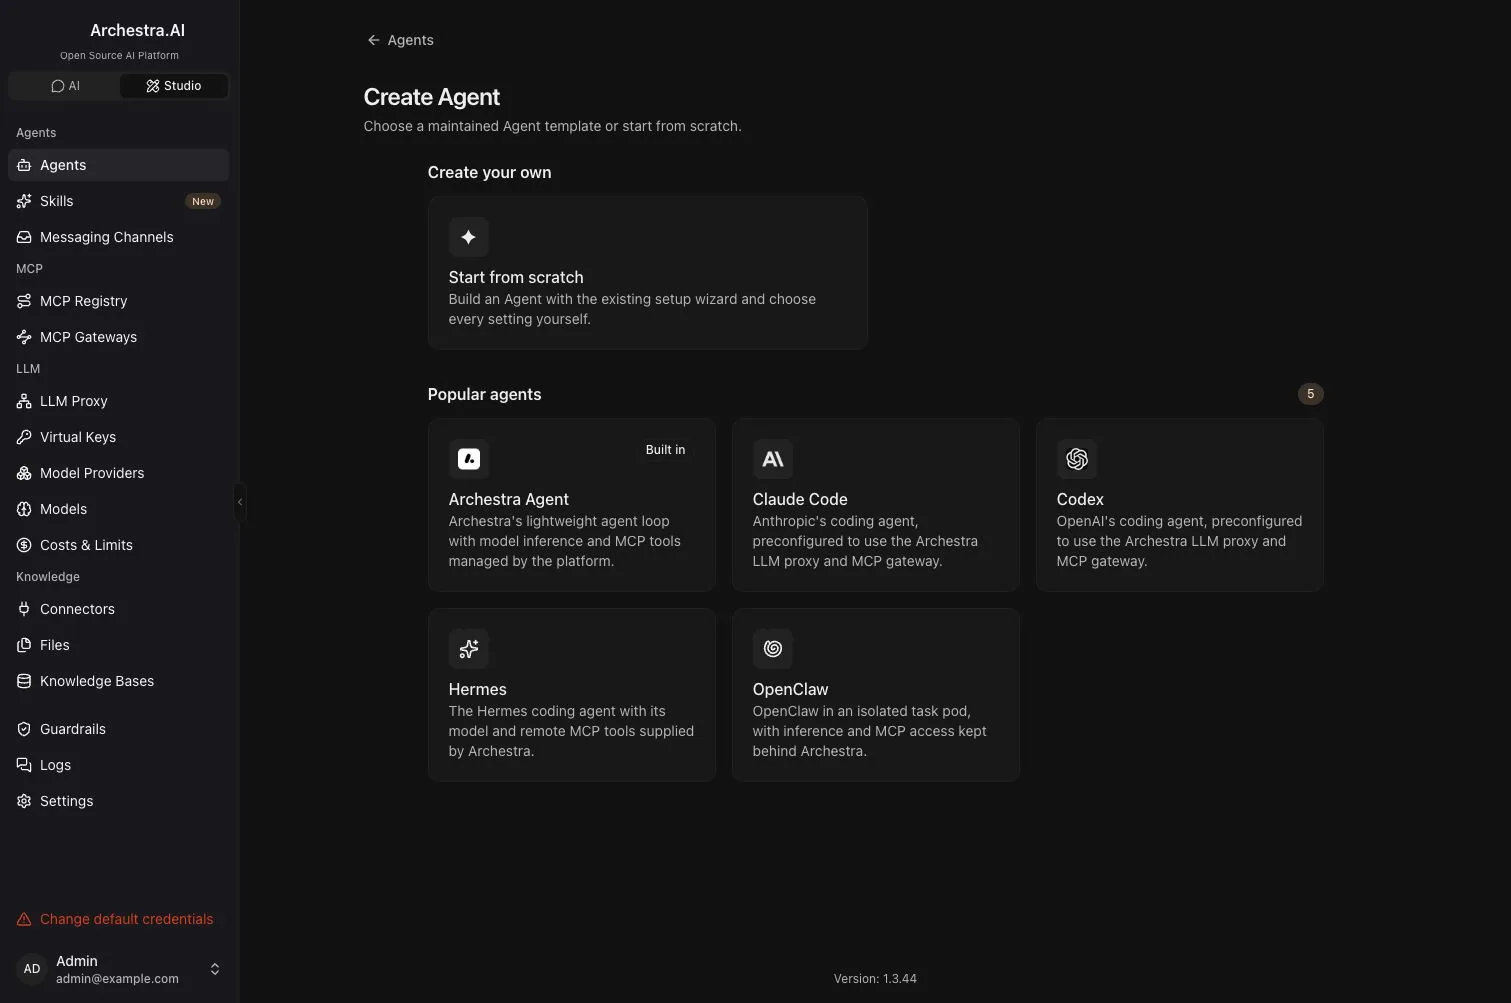
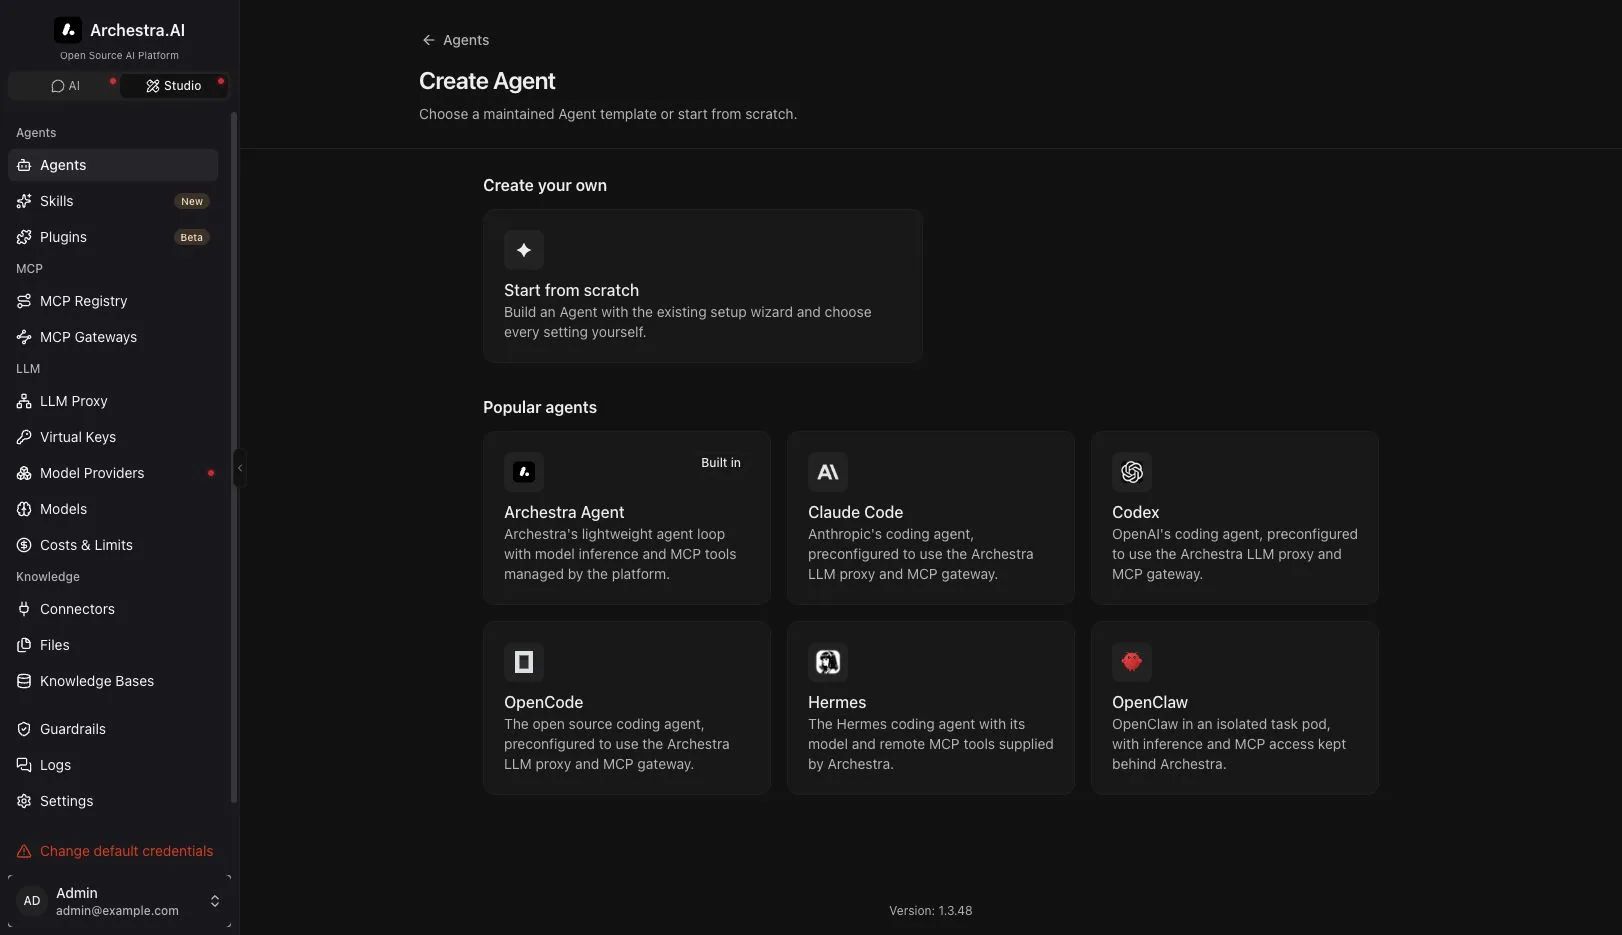
feat(agent): add OpenCode background execution (#7646)
## Summary

Adds OpenCode as a maintained background runtime so users can select it
from the Create Agent catalog instead of assembling a custom image and
client configuration.

- Adds an `agent-opencode` image and `archestra-opencode` wrapper for
OpenAI Responses, authenticated MCP access, one-shot runs, the
interactive TUI, and terminal steering.
- Supplies effective model context and output limits to native runtimes
so OpenCode can advertise the selected model correctly.
- Adds the official OpenCode mark, local Tilt and release image builds,
behavior tests, and updated background-execution documentation.

The image pins OpenCode 1.18.23, which is past the repository
release-age window. Its installer is invoked explicitly during the image
build because lifecycle scripts are disabled repository-wide.

## Validation

Created an OpenCode Agent through the local catalog and ran the built
`agent-opencode:dev` image as a real interactive Kubernetes execution
with GPT-5.6 Sol. OpenCode 1.18.23 connected through the Responses
proxy, round-tripped `OPENCODE_OK` through its shell, invoked
`archestra__whoami` through the authenticated MCP gateway and returned
`MCP_OK`, then accepted a follow-up through terminal steering and
returned `STEERING_OK`. No runner resources remained after the execution
stopped.

Entry-point behavior tests cover both one-shot and interactive launch
modes, including generated provider/MCP configuration and protocol
rejection.

---
[…]

diff --git a/platform/backend/src/services/runners/opencode-entrypoint.test.ts b/platform/backend/src/services/runners/opencode-entrypoint.test.ts
@@ -1,0 +1,144 @@
+import { execFile } from "node:child_process";
+import {
+  chmod,
+  mkdir,
+  mkdtemp,
+  readFile,
+  rm,
+  writeFile,
+} from "node:fs/promises";
+import { tmpdir } from "node:os";
+import path from "node:path";
+import { promisify } from "node:util";
+import { describe, expect, test } from "vitest";
+
+const execFileAsync = promisify(execFile);
+const ENTRYPOINT = path.resolve(
+  import.meta.dirname,
+  "../../../../agent_images/bin/archestra-opencode",
+);
+
+describe("OpenCode image entrypoint", () => {
+  test.each([
+    ["one_shot", ["run", "--pure", "--auto"]],
+    ["interactive", ["--pure", "--auto"]],
+  ] as const)("configures and starts %s execution", async (mode, prefix) => {
+    const root = await mkdtemp(path.join(tmpdir(), "archestra-opencode-"));
+    try {
+      const bin = path.join(root, "bin");
+      const runtime = path.join(root, "runtime");
+      const workspace = path.join(root, "workspace");
+      await Promise.all([
+        mkdir(bin, { recursive: true }),
+        mkdir(workspace, { recursive: true }),
+      ]);
+      await writeExecutable(
+        path.join(bin, "opencode"),
+        `#!/bin/sh
+printf '%s\n' "$@" > "$ARCHESTRA_AGENT_BACKGROUND_EXECUTION_RUNTIME_DIR/captured-args"
+env > "$ARCHESTRA_AGENT_BACKGROUND_EXECUTION_RUNTIME_DIR/captured-env"
+`,
+      );
+
+      await execFileAsync("bash", [ENTRYPOINT], {
+        cwd: workspace,
+        env: {
+          ...process.env,
+          PATH: `${bin}:${process.env.PATH}`,
+          ARCHESTRA_LLM_PROXY_PROTOCOL: "openai_responses",
+          ARCHESTRA_AGENT_BACKGROUND_EXECUTION_RUNTIME_DIR: runtime,
+          ARCHESTRA_AGENT_BACKGROUND_EXECUTION_NATIVE_MODEL: "test-model",
+          ARCHESTRA_AGENT_BACKGROUND_EXECUTION_MODEL_CONTEXT_LENGTH: "200000",
+          ARCHESTRA_AGENT_BACKGROUND_EXECUTION_MODEL_OUTPUT_LENGTH: "32000",
+          ARCHESTRA_AGENT_BACKGROUND_EXECUTION_TASK_ID:
+            "12345678-abcd-4000-8000-123456789abc",
+          ARCHESTRA_AGENT_BACKGROUND_EXECUTION_TASK: "Run the task.",
+          ARCHESTRA_AGENT_BACKGROUND_EXECUTION_SYSTEM_PROMPT:
+            "Follow the configured Agent instructions.",
+          ARCHESTRA_AGENT_BACKGROUND_EXECUTION_MODE: mode,
+          ARCHESTRA_MCP_GATEWAY_URL: "http://localhost:9000/v1/mcp/test",
+          ARCHESTRA_MCP_GATEWAY_TOKEN: "test-token",
+          OPENAI_API_KEY: "test-key",
+          OPENAI_BASE_URL: "http://localhost:9000/v1/model-router/test",
+        },
+      });
+
+      const config = JSON.parse(
+        await readFile(path.join(runtime, "opencode.json"), "utf8"),
+      );
+      expect(config).toMatchObject({
+        model: "archestra/test-model",
+        permission: "allow",
+        provider: {
+          archestra: {
+            npm: "@ai-sdk/openai",
+            options: {
+              baseURL: "http://localhost:9000/v1/model-router/test",
+              apiKey: "{env:OPENAI_API_KEY}",
+              headers: {
+                "X-Archestra-Execution-Id":
+                  "12345678-abcd-4000-8000-123456789abc",
+                "X-Archestra-Session-Id":
+                  "12345678-abcd-4000-8000-123456789abc",
+              },
+            },
+            models: {
+              "test-model": {
+                tool_call: true,
+                limit: { context: 200000, output: 32000 },
+              },
+            },
+          },
+        },
+        mcp: {
+          archestra: {
+            type: "remote",
+            url: "http://localhost:9000/v1/mcp/test",
+            oauth: false,
+            headers: {
+              Authorization: "Bearer test-token",
+              "X-Archestra-Execution-Id":
+                "12345678-abcd-4000-8000-123456789abc",
+              "X-Archestra-Session-Id": "12345678-abcd-4000-8000-123456789abc",
+            },
+          },
+        },
+      });
+      expect(
+        await readFile(path.join(runtime, "opencode-instructions.md"), "utf8"),
+      ).toBe("Follow the configured Agent instructions.\n");
+
+      const args = (await readFile(path.join(runtime, "captured-args"), "utf8"))
+        .trim()
+        .split("\n");
+      expect(args.slice(0, prefix.length)).toEqual(prefix);
+      expect(args).toContain("archestra/test-model");
+      expect(args.at(-1)).toBe("Run the task.");
+
+      const capturedEnv = await readFile(
+        path.join(runtime, "captured-env"),
+        "utf8",
+      );
+      expect(capturedEnv).toContain("OPENCODE_DISABLE_PROJECT_CONFIG=1");
+      expect(capturedEnv).toContain(`OPENCODE_CONFIG=${runtime}/opencode.json`);
+    } finally {
+      await rm(root, { recursive: true, force: true });
+    }
+  });
+
+  test("rejects a non-Responses protocol before starting OpenCode", async () => {
+    await expect(
+      execFileAsync("bash", [ENTRYPOINT], {
+        env: {
+          ...process.env,
+          ARCHESTRA_LLM_PROXY_PROTOCOL: "openai_chat",
+        },
+      }),
+    ).rejects.toMatchObject({ code: 78 });
+  });
+});
+
+async function writeExecutable(file: string, contents: string): Promise<void> {
+  await writeFile(file, contents, "utf8");
+  await chmod(file, 0o755);
+}

diff --git a/platform/backend/src/services/runners/launch-spec.ts b/platform/backend/src/services/runners/launch-spec.ts
@@ -238,6 +238,12 @@ export async function buildRunnerLaunchSpec(params: {
           : null,
       })
     : llm.selectedModel;
+  const modelContextLength = selectedModel
+    ? ModelModel.resolveEffectiveContextLength(selectedModel)
+    : null;
+  const modelOutputLength = selectedModel
+    ? ModelModel.resolveEffectiveOutputLength(selectedModel)
+    : null;
   const nonSecretEnv: Record<string, string> = {
     // The runner's own environment goes first: the addresses below must win.
     // An entry overriding ANTHROPIC_BASE_URL would be exactly the bypass the
@@ -257,6 +263,18 @@ export async function buildRunnerLaunchSpec(params: {
     // qualified model id above.
     ARCHESTRA_AGENT_BACKGROUND_EXECUTION_NATIVE_MODEL: nativeModel,
     ARCHESTRA_AGENT_BACKGROUND_EXECUTION_MODEL_PROVIDER: llm.selectedProvider,
+    ...(modelContextLength
+      ? {
+          ARCHESTRA_AGENT_BACKGROUND_EXECUTION_MODEL_CONTEXT_LENGTH:
+            String(modelContextLength),
+        }
+      : {}),
+    ...(modelOutputLength
+      ? {
+          ARCHESTRA_AGENT_BACKGROUND_EXECUTION_MODEL_OUTPUT_LENGTH:
+            String(modelOutputLength),
+        }
+      : {}),
     ARCHESTRA_AGENT_BACKGROUND_EXECUTION_MODE: params.executionMode,
     ARCHESTRA_AGENT_BACKGROUND_EXECUTION_BANNER: executionBanner(
       params.appName,
@@ -373,6 +391,8 @@ const RESERVED_RUNTIME_ENV_KEYS = new Set([
   "ARCHESTRA_AGENT_BACKGROUND_EXECUTION_BANNER",
   "ARCHESTRA_AGENT_BACKGROUND_EXECUTION_MODE",
   "ARCHESTRA_AGENT_BACKGROUND_EXECUTION_MODEL",
+  "ARCHESTRA_AGENT_BACKGROUND_EXECUTION_MODEL_CONTEXT_LENGTH",
+  "ARCHESTRA_AGENT_BACKGROUND_EXECUTION_MODEL_OUTPUT_LENGTH",
   "ARCHESTRA_AGENT_BACKGROUND_EXECUTION_MODEL_PROVIDER",
   "ARCHESTRA_AGENT_BACKGROUND_EXECUTION_NATIVE_MODEL",
   "ARCHESTRA_AGENT_BACKGROUND_EXECUTION_STEER_FIFO",

diff --git a/platform/frontend/src/components/agent-pages/agent-catalog.tsx b/platform/frontend/src/components/agent-pages/agent-catalog.tsx
@@ -14,7 +14,13 @@ import {
 } from "@/lib/hooks/use-app-name";
 
 export interface AgentCatalogTemplate {
-  id: "archestra" | "claude-code" | "codex" | "hermes" | "openclaw";
+  id:
+    | "archestra"
+    | "claude-code"
+    | "codex"
+    | "opencode"
+    | "hermes"
+    | "openclaw";
   name: string;
   description: string;
   icon: string | null;
@@ -72,6 +78,17 @@ export function getAgentCatalogTemplates(
       inferenceProtocol: "openai_responses",
       steerMode: "tmux_keys",
       requiredSubscriptionKind: "chatgpt",
+    }),
+    template({
+      id: "opencode",
+      name: "OpenCode",
+      icon: "/agent-logos/opencode.svg",
+      description: `The open source coding agent, preconfigured to use the ${appName} LLM proxy and MCP gateway.`,
+      platformName: appName,
+      image: image(archestraImage, "opencode"),
+      command: ["archestra-opencode"],
+      inferenceProtocol: "openai_responses",
+      steerMode: "tmux_keys",
     }),
     template({
       id: "hermes",
@@ -185,6 +202,16 @@ function CatalogAgentIcon({
       return <ProviderIcon provider="anthropic" size={22} />;
     case "codex":
       return <ProviderIcon provider="openai" size={22} />;
+    case "opencode":
+      return (
+        <Image
+          src="/agent-logos/opencode.svg"
+          alt=""
+          width={22}
+          height={22}
+          className="h-[22px] w-auto object-contain dark:invert"
+        />
+      );
     case "hermes":
       return (
         <Image

diff --git a/platform/frontend/src/components/agent-pages/agent-create-page.test.tsx b/platform/frontend/src/components/agent-pages/agent-create-page.test.tsx
@@ -107,6 +107,7 @@ describe("AgentCreatePage", () => {
       "Archestra Agent",
       "Claude Code",
       "Codex",
+      "OpenCode",
       "Hermes",
       "OpenClaw",
     ]) {
@@ -140,6 +141,35 @@ describe("AgentCreatePage", () => {
       }),
     );
     expect(screen.getByRole("button", { name: "Catalog" })).toBeInTheDocument();
+  });
+
+  it("prefills OpenCode with its maintained Responses runtime", async () => {
+    const user = userEvent.setup();
+    vi.mocked(useFeature).mockImplementation((feature) =>
+      feature === "agentBackgroundExecution"
+        ? true
+        : feature === "agentBackgroundExecutionBaseImage"
+          ? "agent-archestra:dev"
+          : undefined,
+    );
+
+    render(<AgentCreatePage kind="agent" />);
+    await user.click(screen.getByRole("button", { name: /opencode/i }));
+
+    expect(formProps).toHaveBeenLastCalledWith(
+      expect.objectContaining({
+        initialValues: expect.objectContaining({
+          name: "OpenCode",
+          icon: "/agent-logos/opencode.svg",
+          backgroundExecution: expect.objectContaining({
+            image: "agent-opencode:dev",
+            command: ["archestra-opencode"],
+            inferenceProtocol: "openai_responses",
+            steerMode: "tmux_keys",
+          }),
+        }),
+      }),
+    );
   });
 
   it("prefills OpenClaw with its compatible Chat Completions transport", async () => {

diff --git a/platform/backend/src/services/runners/launch-spec.test.ts b/platform/backend/src/services/runners/launch-spec.test.ts
@@ -72,6 +72,7 @@ describe("buildRunnerLaunchSpec", () => {
       ARCHESTRA_AGENT_BACKGROUND_EXECUTION_MODEL: "gemini:selected-model",
       ARCHESTRA_AGENT_BACKGROUND_EXECUTION_NATIVE_MODEL: "selected-model",
       ARCHESTRA_AGENT_BACKGROUND_EXECUTION_MODEL_PROVIDER: "gemini",
+      ARCHESTRA_AGENT_BACKGROUND_EXECUTION_MODEL_OUTPUT_LENGTH: "16384",
       ARCHESTRA_LLM_PROXY_PROTOCOL: "openai_responses",
       ARCHESTRA_LLM_PROXY_URL: `https://platform.example.test/v1/model-router/${setup.agent.id}`,
       OPENAI_BASE_URL: `https://platform.example.test/v1/model-router/${setup.agent.id}`,
@@ -466,6 +467,12 @@ describe("buildRunnerLaunchSpec", () => {
     expect(spec.env.ARCHESTRA_AGENT_BACKGROUND_EXECUTION_NATIVE_MODEL).toBe(
       "claude-opus-4-8[1m]",
     );
+    expect(
+      spec.env.ARCHESTRA_AGENT_BACKGROUND_EXECUTION_MODEL_CONTEXT_LENGTH,
+    ).toBe("1000000");
+    expect(
+      spec.env.ARCHESTRA_AGENT_BACKGROUND_EXECUTION_MODEL_OUTPUT_LENGTH,
+    ).toBe("16384");
 
     const virtualKey = await VirtualApiKeyModel.findById(virtualApiKeyId);
     expect(virtualKey?.keyType).toBe("passthrough");
@@ -716,6 +723,7 @@ async function makeConfiguredAgent(params: {
     inputModalities: ["text"],
     outputModalities: ["text"],
     contextLength: params.contextLength,
+    outputLength: 16_384,
     supportsToolCalling: true,
     lastSyncedAt: new Date(),
   });

diff --git a/docs/pages/platform-agent-background-execution.md b/docs/pages/platform-agent-background-execution.md
@@ -10,13 +10,13 @@ lastUpdated: 2026-09-03
 
 Background execution gives an Agent an isolated deployment for delegated, long-running work. It is an optional capability of the Agent, not a separate resource to create or grant access to.
 
-![The Create Agent catalog with Archestra Agent, Claude Code, Codex, Hermes, OpenClaw, and Start from scratch](/docs/automated_screenshots/platform-agent-background-execution_catalog.webp)
+![The Create Agent catalog with Archestra Agent, Claude Code, Codex, OpenCode, Hermes, OpenClaw, and Start from scratch](/docs/automated_screenshots/platform-agent-background-execution_catalog.webp)
 
 Think of the configuration as three composable layers:
 
 - The **Agent** is the durable identity: its instructions, selected model, tools, knowledge, environment, and access rules.
 - The **foreground runtime** is Archestra's built-in Agent loop. It powers ordinary conversations and the full chat interface.
-- The optional **background runtime** is an isolated execution selected by Archestra's control plane. The first execution backend uses Kubernetes pods and can run Archestra Agent, Claude Code, Codex, Hermes, OpenClaw, or a custom image. Each task is presented as an execution with logs and a live shell.
+- The optional **background runtime** is an isolated execution selected by Archestra's control plane. The first execution backend uses Kubernetes pods and can run Archestra Agent, Claude Code, Codex, OpenCode, Hermes, OpenClaw, or a custom image. Each task is presented as an execution with logs and a live shell.
 
 The runtime does not become a second Agent. Both runtimes act as the same Agent and receive the same platform-managed model and tool access.
 
@@ -37,8 +37,8 @@ Invocation is explicit and surface-specific:
 - **Delegation selects the configured runtime.** When another Agent delegates to this Agent, Archestra starts a durable task in the Agent's deployment if Background execution is configured. Without it, the delegation uses the foreground Agent loop.
 
 Background executions have two launch modes. Chat starts the image in
-**interactive** mode and exposes its live terminal; maintained Claude Code and
-Codex images run their native TUIs. Delegation from another Agent, A2A,
+**interactive** mode and exposes its live terminal. Maintained Claude Code,
+Codex, and OpenCode images run their native TUIs. Delegation from another Agent, A2A,
 incoming email, schedules, and task tools uses **one-shot** mode. The same
 image receives the task, exits when it is finished, and lets Archestra settle
 the durable task and deliver its result. This is selected by the invocation
@@ -70,7 +70,7 @@ To configure an Agent:
 
 When you create an Agent, the catalog can prefill this setup for one of the
 maintained images. Choose **Archestra Agent**, **Claude Code**, **Codex**,
-**Hermes**, or **OpenClaw**, then review the ordinary Agent wizard. The catalog
+**OpenCode**, **Hermes**, or **OpenClaw**, then review the ordinary Agent wizard. The catalog
 does not create a different resource type: it supplies a name, instructions,
 image, command, inference protocol, and credential declarations to the same
 form used by **Start from scratch**.
@@ -146,7 +146,7 @@ maintained runtime cannot silently switch from subscription access to metered
 API billing.
 
 The **Inference API** setting describes the wire protocol expected by the
-image. Choose **OpenAI Responses** for clients such as Codex. Choose **OpenAI
+image. Choose **OpenAI Responses** for clients such as Codex and OpenCode. Choose **OpenAI
 Chat Completions** for clients such as Hermes and OpenClaw. Choose
 **Anthropic Messages** for clients such as Claude Code. Archestra rejects an
 incompatible model and image before creating a pod.
@@ -220,6 +220,7 @@ accept useful follow-up instructions.
 | `ARCHESTRA_AGENT_BACKGROUND_EXECUTION_ATTACHMENTS_MANIFEST` | JSON manifest containing each input file's name, path, media type, and size. |
 | `ARCHESTRA_AGENT_BACKGROUND_EXECUTION_MODEL` | Provider-qualified model ID for generic clients. |
 | `ARCHESTRA_AGENT_BACKGROUND_EXECUTION_NATIVE_MODEL` | Provider-native model slug for clients that configure their provider separately. |
+| `ARCHESTRA_AGENT_BACKGROUND_EXECUTION_MODEL_CONTEXT_LENGTH`, `ARCHESTRA_AGENT_BACKGROUND_EXECUTION_MODEL_OUTPUT_LENGTH` | Known context and output limits for native client configuration. |
 | `ARCHESTRA_LLM_PROXY_URL`, `ARCHESTRA_LLM_PROXY_PROTOCOL` | Agent-scoped inference endpoint and its `openai_responses`, `openai_chat`, or `anthropic` protocol. |
 | `ARCHESTRA_VIRTUAL_KEY` | Personal virtual key for the execution. |
 | `OPENAI_BASE_URL`, `ANTHROPIC_BASE_URL` | Native client aliases for the Agent-scoped proxy. |

diff --git a/platform/agent_images/README.md b/platform/agent_images/README.md
@@ -10,6 +10,7 @@ invoking user's Agent-scoped MCP gateway endpoint.
 | `agent-archestra` | `archestra-runner-agent` | Responses, Chat Completions, or Anthropic Messages |
 | `agent-claude-code` | `archestra-claude-code` | Anthropic Messages |
 | `agent-codex` | `archestra-codex` | OpenAI Responses |
+| `agent-opencode` | `archestra-opencode` | OpenAI Responses |
 | `agent-hermes` | `archestra-hermes` | OpenAI Chat Completions |
 | `agent-openclaw` | `archestra-openclaw` | OpenAI Chat Completions or OpenAI Responses |
 
@@ -21,7 +22,7 @@ docker build -f agent_images/Dockerfile --target agent-codex -t agent-codex:dev 
 
 Tilt pulls the public GAR images by default. Set
 `ARCHESTRA_AGENT_BACKGROUND_EXECUTION_BASE_IMAGE=agent-archestra:dev` to build
-all five targets locally and use them for dynamically-created Jobs.
+all six targets locally and use them for dynamically-created Jobs.
 
 The native wrappers create their client configuration at run time under
 `/var/run/archestra`. Provider and MCP credentials are never baked into an
@@ -59,6 +60,6 @@ a per-user Background execution secret. GitHub SSH clone URLs are normalized
 to that authenticated HTTPS transport, so a catalog Agent does not also need a
 separate SSH key.
 
-The five public catalog targets are built for development deployments and
+The six public catalog targets are built for development deployments and
 releases. Keep native CLI versions exact and review their published package
 scripts before updating them.
